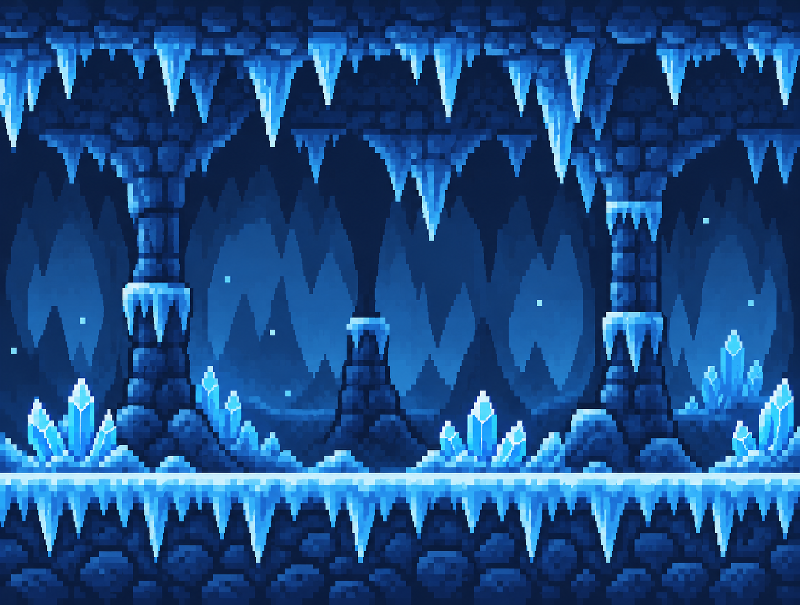
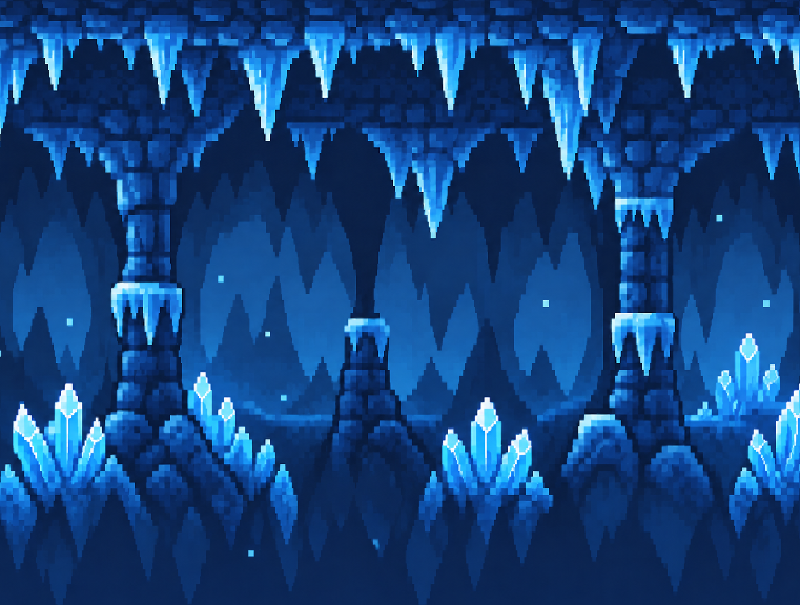
updated level 2 background to not have a bottom platform

diff --git a/src/Screens/PlayLevelScreen.java b/src/Screens/PlayLevelScreen.java
@@ -41,8 +41,8 @@ public class PlayLevelScreen extends Screen implements PlayerListener {
     public void initialize() {
 
         // Define/setup map
-        this.map = new LevelOneMap();
-        this.backgroundImage = ImageLoader.load("game-background-level1.png");
+        this.map = new LevelTwoMap();
+        this.backgroundImage = ImageLoader.load("game-background-level2.png");
         // Setup player
         this.player = new Cat(
                 map.getPlayerStartPosition().x,
@@ -123,7 +123,7 @@ public class PlayLevelScreen extends Screen implements PlayerListener {
                     graphicsHandler.drawRectangle(
                             4, 4, 792, 597,
                             new Color(255, 0, 0, 200),
-                            12
+                            12 
                     );
                 }
 
